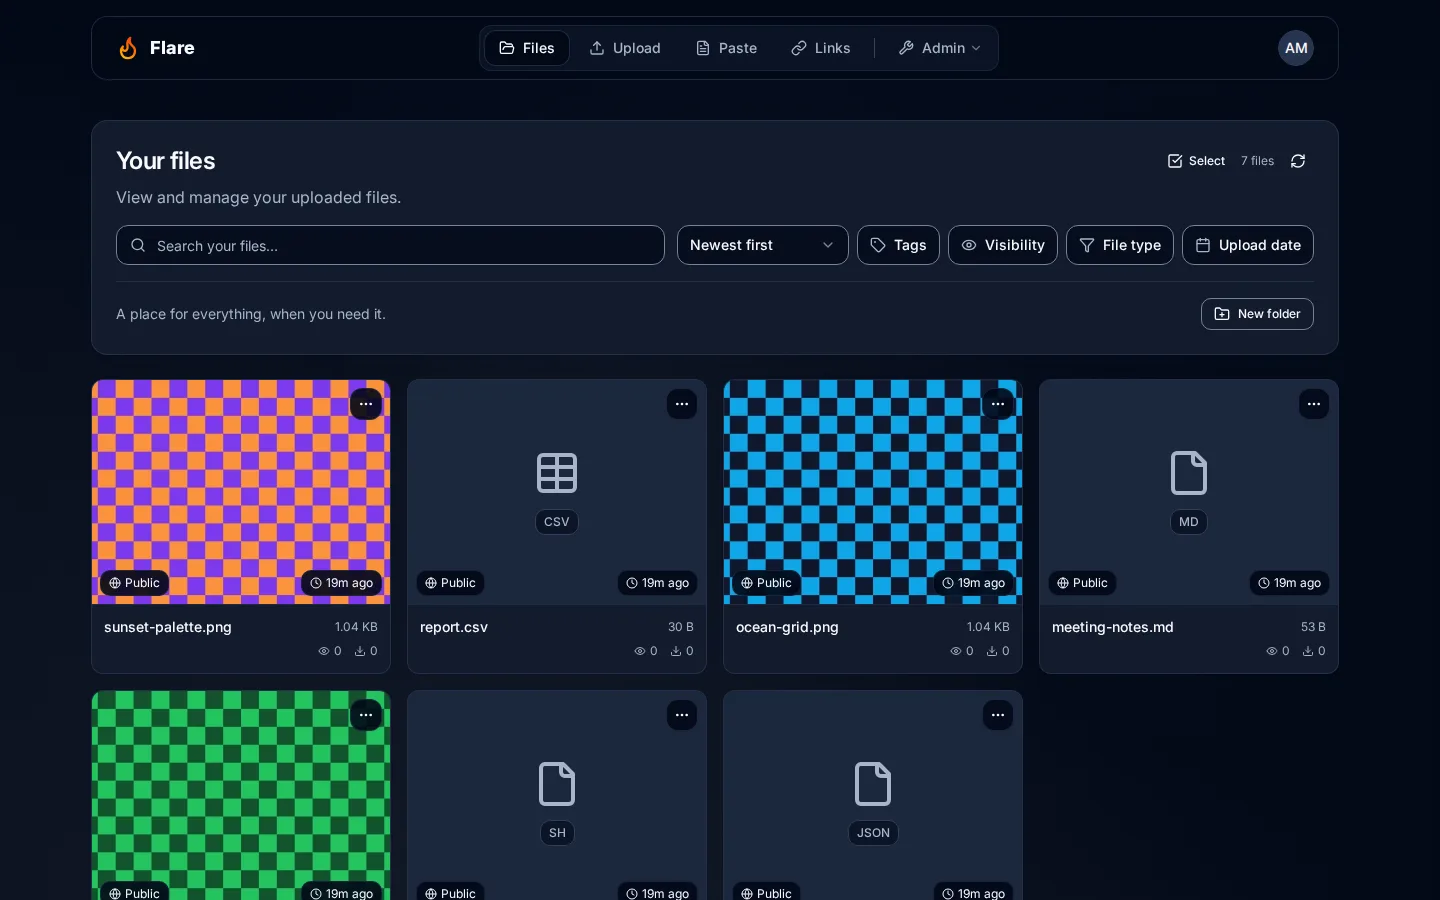
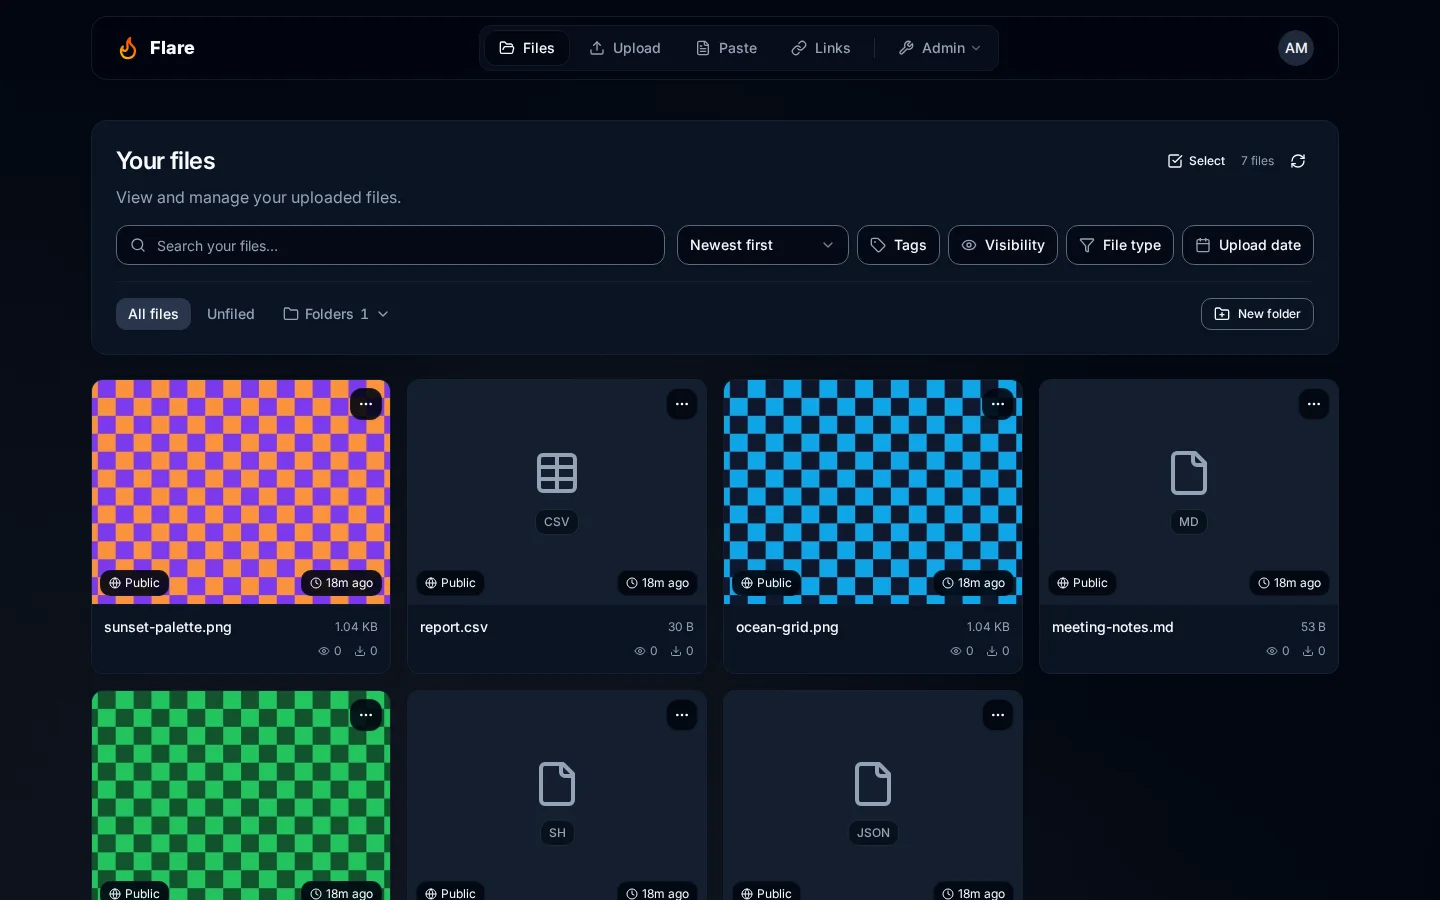
Deepen the default dark theme instead of lightening it
The higher-contrast defaults lifted panels and dialogs toward slate, which
read as washed out. Get the separation from a darker page instead: the page
drops to #010610, panels render at about their original depth (#0a1322) and
dialogs and menus just above (#0e182a) with a deeper shadow. Borders, quiet
fills, field outlines and secondary text return to the original slate, and
hover (#222e44) and selection (#29364d) get their own steps.

An untouched copy of either earlier default classic palette is recognized on
read and resolves to the new one. Midnight, the classic reset, the palette
table, the appearance guides and the handbook screenshots follow.

Changed region(s): [[0.0625, 0.3111, 0.2812, 0.3733]]

diff --git a/__tests__/customization/theme-initializer.test.ts b/__tests__/customization/theme-initializer.test.ts
@@ -5,7 +5,8 @@ import { initialThemeStyles } from '@/components/theme/initial-theme-styles'
 import { DEFAULT_CONFIG, configSchema } from '@/lib/config'
 import {
   CLASSIC_PALETTE,
-  ORIGINAL_CLASSIC_PALETTE,
+  SUPERSEDED_CLASSIC_PALETTES,
+  defaultClassicColors,
 } from '@/lib/customization/legacy-appearance'
 import { LIGHT_PALETTE } from '@/lib/customization/schema'
 import { paletteVariables } from '@/lib/customization/theme'
@@ -22,23 +23,33 @@ function declarations(css: string, selector: string) {
 }
 
 describe('initial server-rendered theme', () => {
-  it('upgrades a saved untouched classic palette but retains a customized palette', () => {
-    const config = structuredClone(DEFAULT_CONFIG)
-    config.settings.appearance.customColors = { ...ORIGINAL_CLASSIC_PALETTE }
-    expect(configSchema.parse(config).settings.appearance.customColors).toEqual(
+  it.each(SUPERSEDED_CLASSIC_PALETTES)(
+    'upgrades a saved untouched earlier default but retains a customized palette',
+    (earlier) => {
+      const config = structuredClone(DEFAULT_CONFIG)
+      config.settings.appearance.customColors = { ...earlier }
+      expect(
+        configSchema.parse(config).settings.appearance.customColors
+      ).toEqual(CLASSIC_PALETTE)
+      expect(initialThemeStyles(config)).toContain(
+        `--card: ${CLASSIC_PALETTE.card};`
+      )
+      config.settings.appearance.customColors.primary = '120 50% 50%'
+      expect(
+        configSchema.parse(config).settings.appearance.customColors.card
+      ).toBe(earlier.card)
+      expect(initialThemeStyles(config)).toContain(`--card: ${earlier.card};`)
+      expect(initialThemeStyles(config)).toContain('--primary: 120 50% 50%;')
+    }
+  )
+
+  it('recognizes both earlier defaults and leaves the current one alone', () => {
+    expect(SUPERSEDED_CLASSIC_PALETTES).toHaveLength(2)
+    for (const earlier of SUPERSEDED_CLASSIC_PALETTES)
+      expect(earlier).not.toEqual(CLASSIC_PALETTE)
+    expect(defaultClassicColors({ ...CLASSIC_PALETTE })).toEqual(
       CLASSIC_PALETTE
     )
-    expect(initialThemeStyles(config)).toContain(
-      `--card: ${CLASSIC_PALETTE.card};`
-    )
-    config.settings.appearance.customColors.primary = '120 50% 50%'
-    expect(
-      configSchema.parse(config).settings.appearance.customColors.card
-    ).toBe(ORIGINAL_CLASSIC_PALETTE.card)
-    expect(initialThemeStyles(config)).toContain(
-      `--card: ${ORIGINAL_CLASSIC_PALETTE.card};`
-    )
-    expect(initialThemeStyles(config)).toContain('--primary: 120 50% 50%;')
   })
 
   it('fills every default Flare HSL token after setup saved an empty palette', () => {
@@ -67,9 +78,9 @@ describe('initial server-rendered theme', () => {
     config.settings.appearance.customColors = { primary: '120 50% 50%' }
     const css = initialThemeStyles(config)
     expect(css).toContain('--primary: 120 50% 50%;')
-    expect(css).toContain('--background: 222.2 84% 4.9%;')
+    expect(css).toContain(`--background: ${CLASSIC_PALETTE.background};`)
     expect(css).toContain('--foreground: 210 40% 98%;')
-    expect(css).toContain('--input: 216.6 26.1% 30.8%;')
+    expect(css).toContain(`--input: ${CLASSIC_PALETTE.input};`)
     expect(css).not.toContain('.dark{')
   })
 
@@ -83,7 +94,7 @@ describe('initial server-rendered theme', () => {
       expect(declarations(css, '.light')).toEqual(
         paletteVariables(config.settings.customization.published.theme.light)
       )
-      expect(css).toContain('--background: 222.2 84% 4.9%;')
+      expect(css).toContain(`--background: ${CLASSIC_PALETTE.background};`)
     }
   })
 
@@ -129,6 +140,6 @@ describe('initial server-rendered theme', () => {
         DEFAULT_CONFIG.settings.customization.published.theme.dark
       )
     )
-    expect(css).toContain('--background: 222.2 84% 4.9%;')
+    expect(css).toContain(`--background: ${CLASSIC_PALETTE.background};`)
   })
 })

diff --git a/__tests__/customization/presets.test.ts b/__tests__/customization/presets.test.ts
@@ -84,26 +84,33 @@ describe('palette presets', () => {
     }
   })
 
-  it('steps rendered dark surfaces up from the page without glaring overlays', () => {
+  it('separates rendered dark surfaces while keeping them deep', () => {
     const p = DARK_PALETTE
     // The colours the dark theme actually paints (app/globals.css).
     const panel = mix(p.card, p.cardForeground, 0.96)
     const overlay = mix(p.popover, p.foreground, 0.93)
     const control = mix(p.mutedForeground, p.input, 0.55)
-    expect(contrast(panel, p.background)).toBeGreaterThan(1.1)
-    expect(contrast(overlay, panel)).toBeGreaterThan(1.15)
-    // Dialogs and menus stay dark navy rather than a light slate sheet.
-    expect(contrast(overlay, p.background)).toBeLessThan(1.6)
+    // Panels step up from the page, and menus and dialogs from panels.
+    expect(contrast(panel, p.background)).toBeGreaterThan(1.07)
+    expect(luminance(overlay)).toBeGreaterThan(luminance(panel))
+    // The separation comes from a deeper page, not lighter surfaces: every
+    // surface stays near black instead of turning into a slate sheet.
+    expect(contrast(panel, '#000000')).toBeLessThan(1.15)
+    expect(contrast(overlay, '#000000')).toBeLessThan(1.2)
     // Hover fills show on panels and inside menus.
-    expect(contrast(p.accent, panel)).toBeGreaterThan(1.5)
-    expect(contrast(p.accent, overlay)).toBeGreaterThan(1.35)
-    // A hovered tab never outshines the selected one.
-    expect(luminance(p.secondary)).toBeGreaterThanOrEqual(luminance(p.accent))
+    expect(contrast(p.accent, panel)).toBeGreaterThan(1.3)
+    expect(contrast(p.accent, overlay)).toBeGreaterThan(1.25)
+    // Selection is a step above hover, so a hovered tab never outshines the
+    // selected one.
+    expect(luminance(p.secondary)).toBeGreaterThan(luminance(p.accent))
     // Muted fills (thumbnails, skeletons) still show at half opacity.
     expect(contrast(mix(p.muted, panel, 0.5), panel)).toBeGreaterThan(1.1)
-    expect(contrast(p.border, panel)).toBeGreaterThan(1.5)
-    // Menu separators use the border colour in dark mode.
-    expect(contrast(p.border, overlay)).toBeGreaterThan(1.2)
+    // Lines stay soft: visible on panels and in menus without outlining them.
+    for (const surface of [panel, overlay]) {
+      const line = contrast(p.border, surface)
+      expect(line).toBeGreaterThan(1.15)
+      expect(line).toBeLessThan(1.4)
+    }
     expect(contrast(control, panel)).toBeGreaterThan(3)
     expect(contrast(control, overlay)).toBeGreaterThan(3)
     expect(contrast(p.mutedForeground, overlay)).toBeGreaterThan(4.5)

diff --git a/lib/customization/legacy-appearance.ts b/lib/customization/legacy-appearance.ts
@@ -32,8 +32,8 @@ export const ORIGINAL_CLASSIC_PALETTE = {
   ring: '212.7 26.8% 83.9%',
 }
 
-/** Distinct canvas, raised surfaces, hover fills and separators in the default navy palette. */
-export const CLASSIC_PALETTE = {
+/** The first higher-contrast defaults, recognized so installations that saved them move on too. */
+const LIFTED_CLASSIC_PALETTE = {
   ...ORIGINAL_CLASSIC_PALETTE,
   card: '221.5 52% 9.8%',
   popover: '221.3 42.1% 14.9%',
@@ -45,15 +45,38 @@ export const CLASSIC_PALETTE = {
   input: '216.6 26.1% 30.8%',
 }
 
-/** Upgrade only the complete untouched classic palette; never rewrite custom colors. */
+/**
+ * The default dark palette: a deeper page so panels separate without getting
+ * lighter, and separate fills for hover and selection. Lines, quiet fills and
+ * secondary text keep the original slate.
+ */
+export const CLASSIC_PALETTE = {
+  ...ORIGINAL_CLASSIC_PALETTE,
+  background: '220 88.2% 3.3%',
+  card: '219.1 74.2% 6.1%',
+  popover: '221.5 81.2% 6.3%',
+  secondary: '218.3 30.5% 23.1%',
+  accent: '218.8 33.3% 20%',
+}
+
+export const SUPERSEDED_CLASSIC_PALETTES = [
+  ORIGINAL_CLASSIC_PALETTE,
+  LIFTED_CLASSIC_PALETTE,
+]
+
+/** Upgrade only a complete untouched earlier default; never rewrite custom colors. */
 export function defaultClassicColors(
   colors: Record<string, string>
 ): Record<string, string> {
-  const entries = Object.entries(ORIGINAL_CLASSIC_PALETTE)
-  return Object.keys(colors).length === entries.length &&
-    entries.every(([key, value]) => colors[key] === value)
-    ? { ...CLASSIC_PALETTE }
-    : colors
+  const size = Object.keys(colors).length
+  const untouched = SUPERSEDED_CLASSIC_PALETTES.some((palette) => {
+    const entries = Object.entries(palette)
+    return (
+      size === entries.length &&
+      entries.every(([key, value]) => colors[key] === value)
+    )
+  })
+  return untouched ? { ...CLASSIC_PALETTE } : colors
 }
 
 /** Classic palettes have 19 tokens; leave room without allowing unbounded maps. */

diff --git a/components/ui/dropdown-menu.tsx b/components/ui/dropdown-menu.tsx
@@ -48,7 +48,7 @@ const DropdownMenuSubContent = React.forwardRef<
   <DropdownMenuPrimitive.SubContent
     ref={ref}
     className={cn(
-      'z-50 min-w-[8rem] overflow-hidden rounded-xl border border-border bg-overlay text-popover-foreground shadow-lg shadow-black/20 p-1 data-[state=open]:animate-in data-[state=closed]:animate-out data-[state=closed]:fade-out-0 data-[state=open]:fade-in-0 data-[state=closed]:zoom-out-95 data-[state=open]:zoom-in-95 data-[side=bottom]:slide-in-from-top-2 data-[side=left]:slide-in-from-right-2 data-[side=right]:slide-in-from-left-2 data-[side=top]:slide-in-from-bottom-2',
+      'z-50 min-w-[8rem] overflow-hidden rounded-xl border border-border bg-overlay text-popover-foreground shadow-lg shadow-black/20 dark:shadow-black/60 p-1 data-[state=open]:animate-in data-[state=closed]:animate-out data-[state=closed]:fade-out-0 data-[state=open]:fade-in-0 data-[state=closed]:zoom-out-95 data-[state=open]:zoom-in-95 data-[side=bottom]:slide-in-from-top-2 data-[side=left]:slide-in-from-right-2 data-[side=right]:slide-in-from-left-2 data-[side=top]:slide-in-from-bottom-2',
       className
     )}
     {...props}
@@ -67,7 +67,7 @@ const DropdownMenuContent = React.forwardRef<
       sideOffset={sideOffset}
       collisionPadding={collisionPadding}
       className={cn(
-        'z-50 min-w-[8rem] overflow-hidden rounded-xl border border-border bg-overlay text-popover-foreground shadow-lg shadow-black/20 p-1',
+        'z-50 min-w-[8rem] overflow-hidden rounded-xl border border-border bg-overlay text-popover-foreground shadow-lg shadow-black/20 dark:shadow-black/60 p-1',
         'data-[state=open]:animate-in data-[state=closed]:animate-out data-[state=closed]:fade-out-0 data-[state=open]:fade-in-0 data-[state=closed]:zoom-out-95 data-[state=open]:zoom-in-95 data-[side=bottom]:slide-in-from-top-2 data-[side=left]:slide-in-from-right-2 data-[side=right]:slide-in-from-left-2 data-[side=top]:slide-in-from-bottom-2',
         className
       )}

diff --git a/components/ui/select.tsx b/components/ui/select.tsx
@@ -88,7 +88,7 @@ const SelectContent = React.forwardRef<
         ref={ref}
         collisionPadding={collisionPadding}
         className={cn(
-          'relative z-50 max-h-96 min-w-[8rem] overflow-hidden rounded-xl border border-border bg-overlay text-popover-foreground shadow-lg shadow-black/20 data-[state=open]:animate-in data-[state=closed]:animate-out data-[state=closed]:fade-out-0 data-[state=open]:fade-in-0 data-[state=closed]:zoom-out-95 data-[state=open]:zoom-in-95 data-[side=bottom]:slide-in-from-top-2 data-[side=left]:slide-in-from-right-2 data-[side=right]:slide-in-from-left-2 data-[side=top]:slide-in-from-bottom-2',
+          'relative z-50 max-h-96 min-w-[8rem] overflow-hidden rounded-xl border border-border bg-overlay text-popover-foreground shadow-lg shadow-black/20 dark:shadow-black/60 data-[state=open]:animate-in data-[state=closed]:animate-out data-[state=closed]:fade-out-0 data-[state=open]:fade-in-0 data-[state=closed]:zoom-out-95 data-[state=open]:zoom-in-95 data-[side=bottom]:slide-in-from-top-2 data-[side=left]:slide-in-from-right-2 data-[side=right]:slide-in-from-left-2 data-[side=top]:slide-in-from-bottom-2',
           position === 'popper' &&
             'data-[side=bottom]:translate-y-1 data-[side=left]:-translate-x-1 data-[side=right]:translate-x-1 data-[side=top]:-translate-y-1',
           className

diff --git a/components/ui/popover.tsx b/components/ui/popover.tsx
@@ -33,7 +33,7 @@ const PopoverContent = React.forwardRef<
         sideOffset={sideOffset}
         collisionPadding={collisionPadding}
         className={cn(
-          'z-50 w-72 rounded-xl border border-border bg-overlay text-popover-foreground shadow-lg shadow-black/20 p-4 outline-none data-[state=open]:animate-in data-[state=closed]:animate-out data-[state=closed]:fade-out-0 data-[state=open]:fade-in-0 data-[state=closed]:zoom-out-95 data-[state=open]:zoom-in-95 data-[side=bottom]:slide-in-from-top-2 data-[side=left]:slide-in-from-right-2 data-[side=right]:slide-in-from-left-2 data-[side=top]:slide-in-from-bottom-2',
+          'z-50 w-72 rounded-xl border border-border bg-overlay text-popover-foreground shadow-lg shadow-black/20 dark:shadow-black/60 p-4 outline-none data-[state=open]:animate-in data-[state=closed]:animate-out data-[state=closed]:fade-out-0 data-[state=open]:fade-in-0 data-[state=closed]:zoom-out-95 data-[state=open]:zoom-in-95 data-[side=bottom]:slide-in-from-top-2 data-[side=left]:slide-in-from-right-2 data-[side=right]:slide-in-from-left-2 data-[side=top]:slide-in-from-bottom-2',
           className
         )}
         {...props}

diff --git a/components/ui/alert-dialog.tsx b/components/ui/alert-dialog.tsx
@@ -42,7 +42,7 @@ const AlertDialogContent = React.forwardRef<
     <AlertDialogPrimitive.Content
       ref={ref}
       className={cn(
-        'fixed inset-0 z-50 m-auto grid h-fit w-[calc(100%-2rem)] max-h-[90dvh] overflow-y-auto max-w-lg gap-4 rounded-2xl border border-border bg-overlay p-5 text-popover-foreground shadow-xl shadow-black/30 sm:p-6 duration-200 data-[state=open]:animate-in data-[state=closed]:animate-out data-[state=closed]:fade-out-0 data-[state=open]:fade-in-0 data-[state=closed]:zoom-out-95 data-[state=open]:zoom-in-95',
+        'fixed inset-0 z-50 m-auto grid h-fit w-[calc(100%-2rem)] max-h-[90dvh] overflow-y-auto max-w-lg gap-4 rounded-2xl border border-border bg-overlay p-5 text-popover-foreground shadow-xl shadow-black/30 dark:shadow-black/70 sm:p-6 duration-200 data-[state=open]:animate-in data-[state=closed]:animate-out data-[state=closed]:fade-out-0 data-[state=open]:fade-in-0 data-[state=closed]:zoom-out-95 data-[state=open]:zoom-in-95',
         className
       )}
       {...props}

diff --git a/components/ui/dialog.tsx b/components/ui/dialog.tsx
@@ -45,7 +45,7 @@ const DialogContent = React.forwardRef<
     <DialogPrimitive.Content
       ref={ref}
       className={cn(
-        'fixed inset-0 z-50 m-auto grid h-fit w-[calc(100%-2rem)] max-h-[90dvh] overflow-y-auto max-w-lg gap-4 rounded-2xl border border-border bg-overlay p-5 text-popover-foreground shadow-xl shadow-black/30 sm:p-6 duration-200 data-[state=open]:animate-in data-[state=closed]:animate-out data-[state=closed]:fade-out-0 data-[state=open]:fade-in-0 data-[state=closed]:zoom-out-95 data-[state=open]:zoom-in-95',
+        'fixed inset-0 z-50 m-auto grid h-fit w-[calc(100%-2rem)] max-h-[90dvh] overflow-y-auto max-w-lg gap-4 rounded-2xl border border-border bg-overlay p-5 text-popover-foreground shadow-xl shadow-black/30 dark:shadow-black/70 sm:p-6 duration-200 data-[state=open]:animate-in data-[state=closed]:animate-out data-[state=closed]:fade-out-0 data-[state=open]:fade-in-0 data-[state=closed]:zoom-out-95 data-[state=open]:zoom-in-95',
         className
       )}
       {...props}

diff --git a/lib/customization/schema.ts b/lib/customization/schema.ts
@@ -29,24 +29,24 @@ export const paletteSchema = z.object(paletteShape).strict()
 export type Palette = z.infer<typeof paletteSchema>
 
 export const DARK_PALETTE: Palette = {
-  background: '#020817',
+  background: '#010610',
   foreground: '#f8fafc',
-  card: '#0c1426',
+  card: '#040c1b',
   cardForeground: '#f8fafc',
-  popover: '#162036',
+  popover: '#030b1d',
   popoverForeground: '#f8fafc',
   primary: '#f8fafc',
   primaryForeground: '#0f172a',
-  secondary: '#33445f',
+  secondary: '#29364d',
   secondaryForeground: '#f8fafc',
-  muted: '#26334d',
-  mutedForeground: '#a8b5c9',
-  accent: '#33445f',
+  muted: '#1e293b',
+  mutedForeground: '#94a3b8',
+  accent: '#222e44',
   accentForeground: '#f8fafc',
   destructive: '#991b1b',
   destructiveForeground: '#f8fafc',
-  border: '#303f59',
-  input: '#3a4a63',
+  border: '#1e293b',
+  input: '#1e293b',
   ring: '#cbd5e1',
 }
 

diff --git a/components/dashboard/file-grid/date-rail.tsx b/components/dashboard/file-grid/date-rail.tsx
@@ -226,7 +226,7 @@ export function DateRail({
               <div
                 aria-hidden="true"
                 className={cn(
-                  'pointer-events-none absolute right-4 top-0 -translate-y-1/2 whitespace-nowrap rounded-lg border border-border bg-overlay px-3 py-1.5 text-xs font-medium text-popover-foreground shadow-lg shadow-black/20 transition-opacity motion-reduce:transition-none',
+                  'pointer-events-none absolute right-4 top-0 -translate-y-1/2 whitespace-nowrap rounded-lg border border-border bg-overlay px-3 py-1.5 text-xs font-medium text-popover-foreground shadow-lg shadow-black/20 dark:shadow-black/60 transition-opacity motion-reduce:transition-none',
                   visible ? 'opacity-100' : 'opacity-0'
                 )}
               >

diff --git a/components/ui/sheet.tsx b/components/ui/sheet.tsx
@@ -33,7 +33,7 @@ const SheetOverlay = React.forwardRef<
 SheetOverlay.displayName = SheetPrimitive.Overlay.displayName
 
 const sheetVariants = cva(
-  'fixed z-50 gap-4 border-border bg-overlay p-6 text-popover-foreground shadow-xl shadow-black/30 transition ease-in-out data-[state=closed]:duration-300 data-[state=open]:duration-500 data-[state=open]:animate-in data-[state=closed]:animate-out',
+  'fixed z-50 gap-4 border-border bg-overlay p-6 text-popover-foreground shadow-xl shadow-black/30 dark:shadow-black/70 transition ease-in-out data-[state=closed]:duration-300 data-[state=open]:duration-500 data-[state=open]:animate-in data-[state=closed]:animate-out',
   {
     variants: {
       side: {

diff --git a/components/dashboard/file-grid/index.tsx b/components/dashboard/file-grid/index.tsx
@@ -497,7 +497,7 @@ function FileLibrary({ scope }: { scope: string }) {
         <div
           ref={selectionBar}
           aria-busy={selection.loading}
-          className="sticky top-24 z-30 flex flex-wrap items-center gap-x-3 gap-y-2 rounded-xl border border-border bg-overlay px-4 py-3 shadow-lg shadow-black/20"
+          className="sticky top-24 z-30 flex flex-wrap items-center gap-x-3 gap-y-2 rounded-xl border border-border bg-overlay px-4 py-3 shadow-lg shadow-black/20 dark:shadow-black/60"
         >
           <label className="flex cursor-pointer items-center gap-2 text-sm">
             <input
